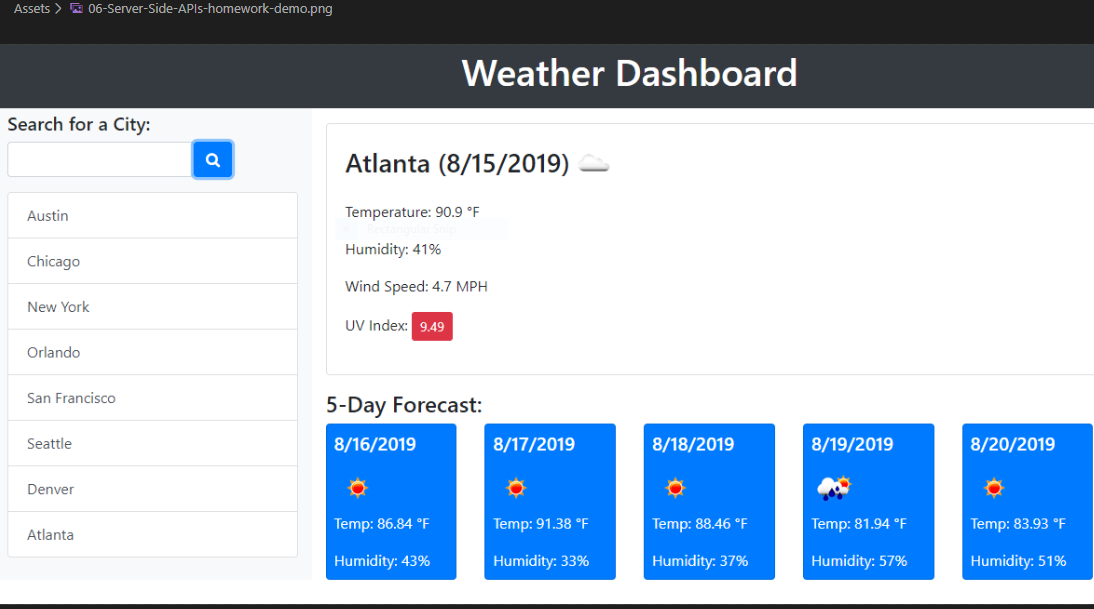
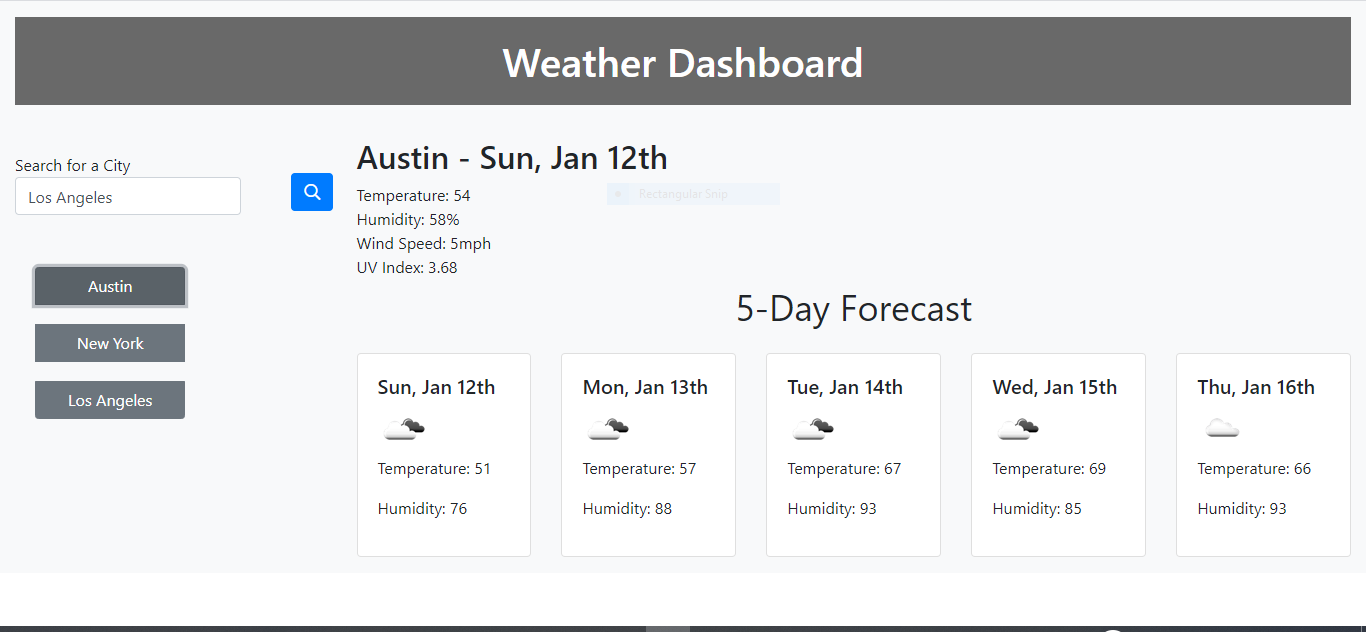
Fixed issue with button generating incorrect city buttons  when city has a space in its name.

diff --git a/script.js b/script.js
@@ -35,8 +35,11 @@ function updateDashboard(city) {      //function expects city everytime it's ref
   // 2. Searching for a new city.
   // 3. When city buttons in list are clicked.
 
-    var queryCurrent = "https://api.openweathermap.org/data/2.5/weather?q=" + city + "&appid=" + apiKeyOpenWeather + "&units=imperial";
+    city = city.replace(' ', '+')
+    console.log(city);
 
+    var queryCurrent = `https://api.openweathermap.org/data/2.5/weather?q=${city}&appid=` + apiKeyOpenWeather + "&units=imperial";
+    
     $.ajax({
       url: queryCurrent,
       method: "GET",
@@ -55,7 +58,7 @@ function updateDashboard(city) {      //function expects city everytime it's ref
 
 updateCurrentUV(city);
 
-var queryURL5day = "https://api.openweathermap.org/data/2.5/forecast?q=" + city + "&appid=" + apiKeyOpenWeather + "&units=imperial";
+var queryURL5day = `https://api.openweathermap.org/data/2.5/forecast?q=${city}&appid=` + apiKeyOpenWeather + "&units=imperial";
   $.ajax({
     url: queryURL5day,
     method: "GET",
@@ -76,8 +79,20 @@ var queryURL5day = "https://api.openweathermap.org/data/2.5/forecast?q=" + city 
       $("#day" + idx + "-temp").text("Temperature: " + tempFiveDay);
       $("#day" + idx + "-humidity").text("Humidity: " + humidityFiveDay);  
     }
+    
   });
-  saveCity(city);
+  if (cityArray.indexOf(city) === -1) {
+    // Puts the city in local storage.
+    // localStorage.setItem("city", city);
+    
+    // pushes city into cityArray
+    cityArray.push(city);
+    console.log(cityArray);
+    var newCity=city.replace('+', ' ');
+    var cityBtn = `<button type="button" class="btn btn-secondary cityBtn" data-city=${city}>${newCity}</button>`;
+    // template literal
+    cityList.append(cityBtn);
+      }
 }
 
 function updateCurrentUV(city) {
@@ -103,20 +118,6 @@ function updateCurrentUV(city) {
 })
 }
 
-function saveCity(city) {
-  if (cityArray.indexOf(city) === -1) {
-// Puts the city in local storage.
-// localStorage.setItem("city", city);
-
-// pushes city into cityArray
-cityArray.push(city);
-console.log(cityArray);
-var cityBtn = `<button type="button" class="btn btn-secondary cityBtn" data-city=${city}>${city}</button>`;
-// template literal
-cityList.append(cityBtn);
-  }
-}
-
 // event handler for return key
 $("#searchCity").keypress(function (event) {
 
@@ -138,7 +139,6 @@ $("#searchBtn").on("click", function () {
 // event handler for cityBtn
 cityList.on("click", ".cityBtn", function (event) {
   var city = $(this).attr("data-city");
-  console.log(city);
   updateDashboard(city);
 });
 

diff --git a/index.html b/index.html
@@ -126,7 +126,7 @@
 
     <script src="https://cdnjs.cloudflare.com/ajax/libs/jquery/3.2.1/jquery.min.js"></script>
     <script src="https://ajax.googleapis.com/ajax/libs/jquery/3.4.1/jquery.min.js"></script>
-    <script src="newscript.js"></script>
+    <script src="script.js"></script>
 </body>
 
 </html>

diff --git a/README.md b/README.md
@@ -1,1 +1,9 @@
 # Weather-Dashboard
+## Purpose
+List the current weather conditions and the 5-day forecast for a city you choose.
+
+## City List
+Each time you search a new city, the dashboard will show its current and 5 day forecast.  
+
+## Options
+When you search for a city, it will be added to the list.  Clicking on a city in the list will update the dashboard with that city's current weather conditions and 5 day forecast.
